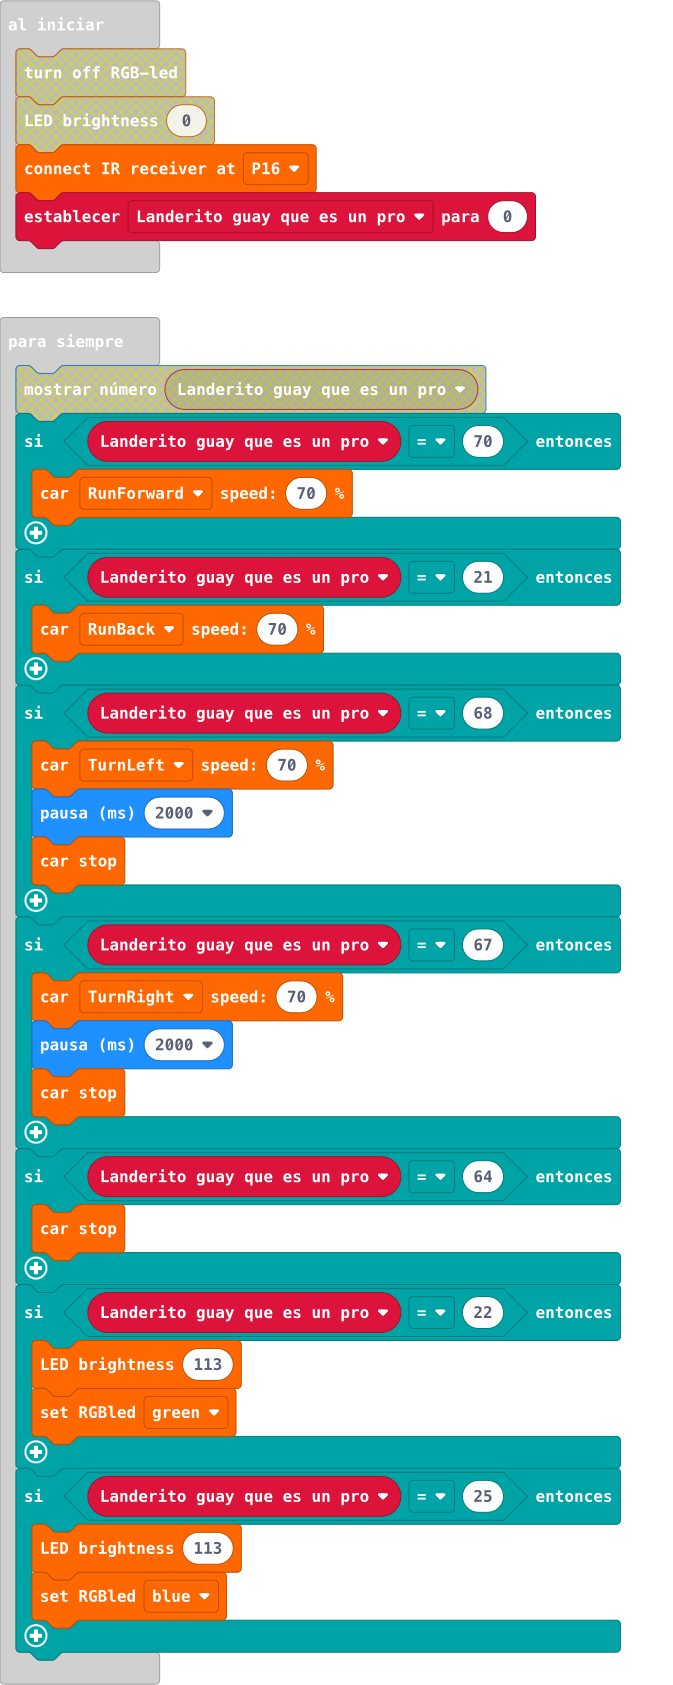
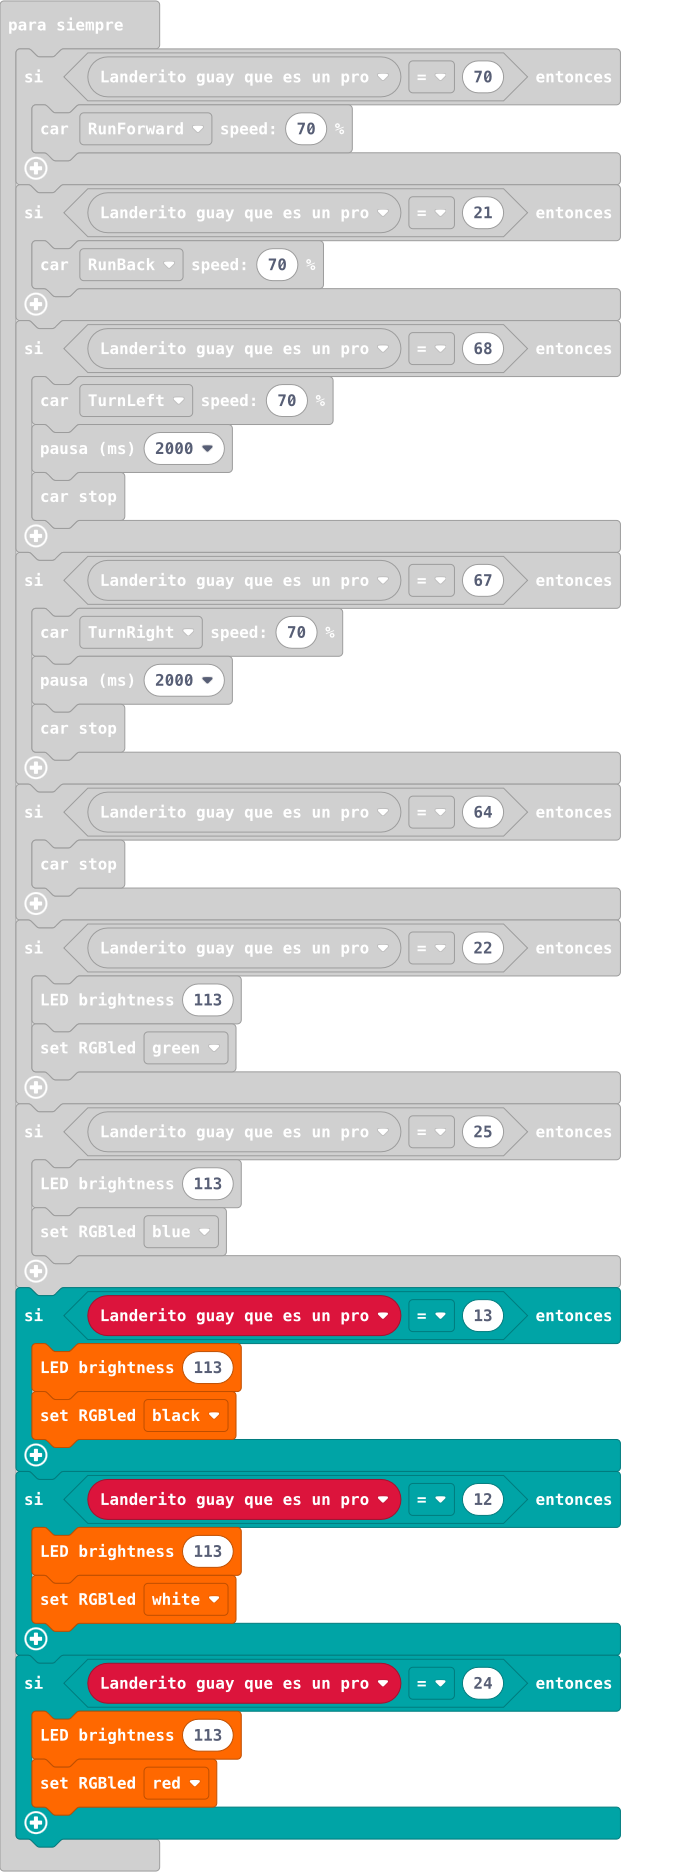
Actualizar main.blocks, main.ts

diff --git a/main.ts b/main.ts
@@ -31,4 +31,16 @@ basic.forever(function () {
         k_Bit.LED_brightness(113)
         k_Bit.Led(COLOR.blue)
     }
+    if (Landerito_guay_que_es_un_pro == 13) {
+        k_Bit.LED_brightness(113)
+        k_Bit.Led(COLOR.black)
+    }
+    if (Landerito_guay_que_es_un_pro == 12) {
+        k_Bit.LED_brightness(113)
+        k_Bit.Led(COLOR.white)
+    }
+    if (Landerito_guay_que_es_un_pro == 24) {
+        k_Bit.LED_brightness(113)
+        k_Bit.Led(COLOR.red)
+    }
 })
